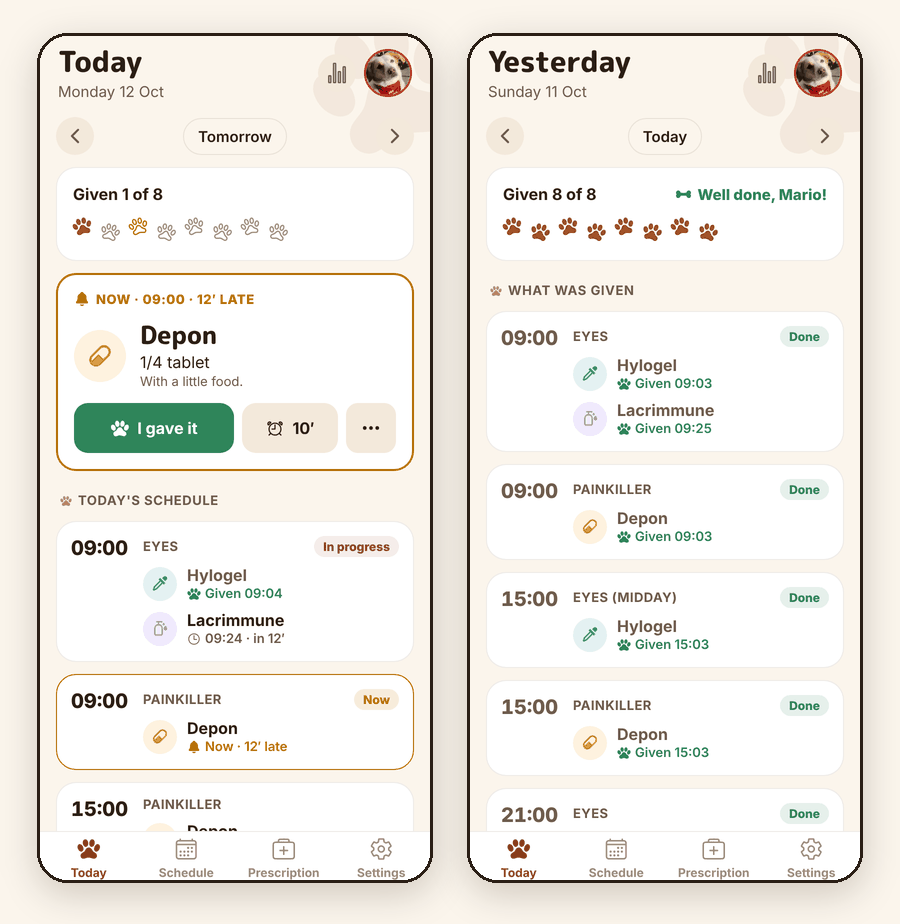
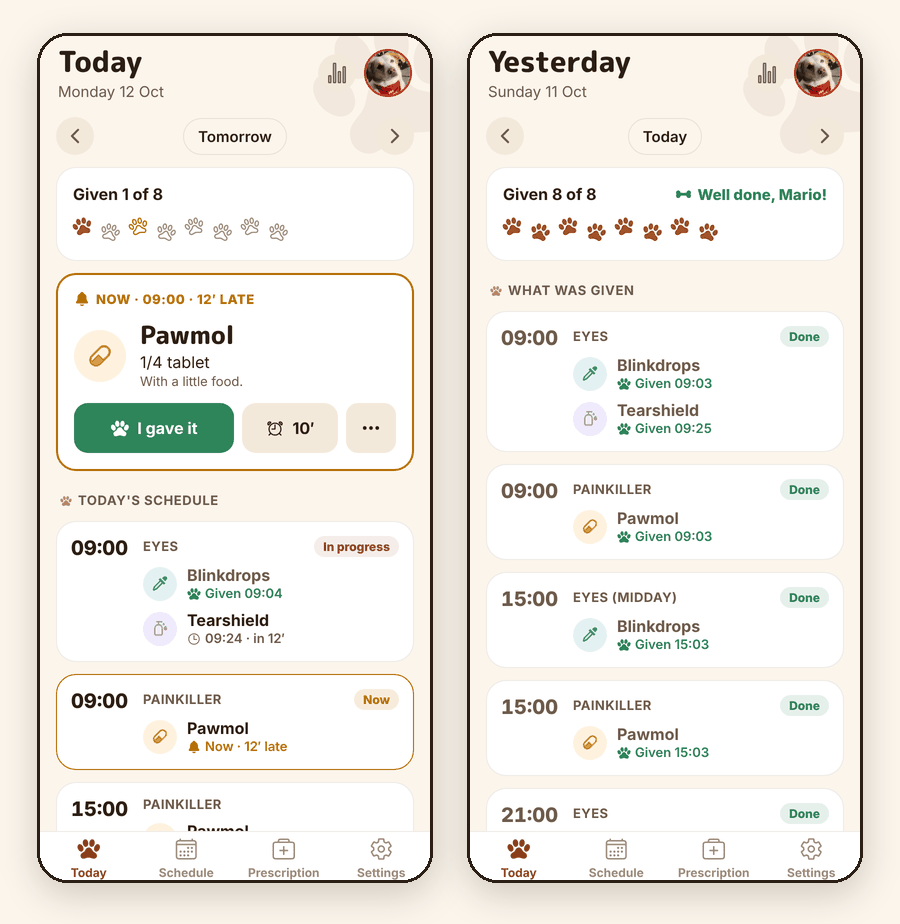
Mario's helper post: made-up medicine names in the text and screenshots
Claude-Session: https://claude.ai/code/session_01BBHdHCMtGfUdkoybeubcWh

diff --git a/posts/marios-helper-v3.md b/posts/marios-helper-v3.md
@@ -13,9 +13,9 @@ new: true
 
 ## What was still wrong
 
-Mario still has Hylogel drops several times a day, and Lacrimmune 20 minutes after some of them. The app from [the last post](/blog/posts/marios-helper-v2) mostly worked, but not always when it mattered.
+Mario still has eye drops several times a day, and an eye ointment 20 minutes after some of them. Here I'll call them Blinkdrops and Tearshield: the medicine names in this post and its screenshots are made up. The app from [the last post](/blog/posts/marios-helper-v2) mostly worked, but not always when it mattered.
 
-- **The buttons did nothing with the app closed.** If I tapped "I gave it" on the notification, or on my Garmin watch, while the app was closed, no code ran. So the reminder for Lacrimmune never came until I opened the app.
+- **The buttons did nothing with the app closed.** If I tapped "I gave it" on the notification, or on my Garmin watch, while the app was closed, no code ran. So the reminder for Tearshield never came until I opened the app.
 - **I couldn't move a dose.** All I could do was postpone a reminder once it went off. I couldn't change its time in advance, or move it earlier.
 - **The swipe fix was fragile.** In the last post I patched the notification library so a swiped notification came back. The patch lived in an `android` folder I'd edited by hand, so the app could only be built on my laptop. And since Android 14, every phone lets you swipe away notifications marked as ongoing, not just OnePlus and Samsung.
 
@@ -37,9 +37,9 @@ The rewrite started on Notifee itself. Its repository was archived in April 2026
 
 ## Chains timed from when I actually gave the medicine
 
-The schedule is built from routines. A routine is a few medicines given one after the other, at set times: Hylogel, then Lacrimmune 20 minutes later, at 09:00 and 21:00.
+The schedule is built from routines. A routine is a few medicines given one after the other, at set times: Blinkdrops, then Tearshield 20 minutes later, at 09:00 and 21:00.
 
-The 20 minutes count from when I tap "I gave it", not from 09:00. If I give Hylogel at 09:04, Lacrimmune rings at 09:24. In between, a notification counts down.
+The 20 minutes count from when I tap "I gave it", not from 09:00. If I give Blinkdrops at 09:04, Tearshield rings at 09:24. In between, a notification counts down.
 
 The app works out every dose a week ahead, and each dose has its own record. That's what makes single changes possible. I tap a future dose and move it or skip it, and nothing else changes. I can also move a whole day at once, for example an hour later when we wake up late.
 
@@ -47,7 +47,7 @@ Every change goes through one function. It saves the data, works out which notif
 
 The schedule logic is plain TypeScript with tests, with no React or notification code in it. The notification flow has tests too, against a fake notification library.
 
-On the first start, the old settings moved over by themselves. Hylogel at 09:00, 15:00 and 21:00 with Lacrimmune after the 09:00 and 21:00 ones became two routines.
+On the first start, the old settings moved over by themselves. Blinkdrops at 09:00, 15:00 and 21:00 with Tearshield after the 09:00 and 21:00 ones became two routines.
 
 ## New versions without a laptop
 
@@ -86,9 +86,9 @@ The app can't flip that setting for me. It can only check it and open the right 
 
 After the rewrite, the rest were small requests from my phone. Each one was a PR, a "merge it", and an update a couple of minutes later.
 
-- **Every 8 hours.** Mario moved from Depon to a different medicine every 8 hours, with the first dose at 07:00, and I couldn't set that up easily. Now a routine has "Every … hours". I pick the first dose and the gap, and it fills in 07:00, 15:00 and 23:00.
+- **Every 8 hours.** Mario's painkiller changed to one he takes every 8 hours, with the first dose at 07:00, and I couldn't set that up easily. Now a routine has "Every … hours". I pick the first dose and the gap, and it fills in 07:00, 15:00 and 23:00.
 - **An empty start.** A new install used to start with Mario's old schedule built in. Now it starts empty.
-- **The vet's first prescription.** The original instructions (Exocin, Hylogel and Lacrimmune until the end of August) had disappeared along with the old built-in data. I wanted them back, so now they're a fixed card on the prescription tab.
+- **The vet's first prescription.** The original instructions (Bactidrops, Blinkdrops and Tearshield until the end of August) had disappeared along with the old built-in data. I wanted them back, so now they're a fixed card on the prescription tab.
 
 ## A dog theme
 
